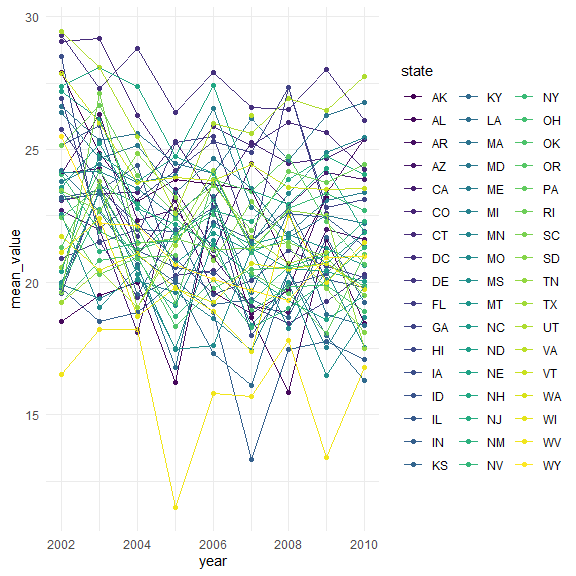
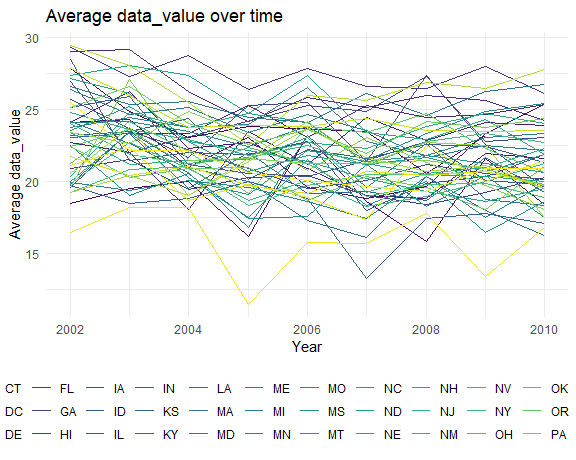
First Version of all three problems

diff --git a/p8105_hw3_xy2517.md b/p8105_hw3_xy2517.md
@@ -3,27 +3,15 @@ p8105\_hw3\_xy2517
 Xuehan Yang
 2021/10/15
 
+**Used library and default plot setting.**
+
 ``` r
 library(tidyverse)
-```
-
-    ## -- Attaching packages --------------------------------------- tidyverse 1.3.1 --
-
-    ## v ggplot2 3.3.5     v purrr   0.3.4
-    ## v tibble  3.1.4     v dplyr   1.0.7
-    ## v tidyr   1.1.3     v stringr 1.4.0
-    ## v readr   2.0.1     v forcats 0.5.1
-
-    ## -- Conflicts ------------------------------------------ tidyverse_conflicts() --
-    ## x dplyr::filter() masks stats::filter()
-    ## x dplyr::lag()    masks stats::lag()
-
-``` r
 library(p8105.datasets)
 
 knitr::opts_chunk$set(
   fig.width = 6,
-  fig.asp = 1,
+  fig.asp = 0.8,
   out.width = "90%"
 )
 
@@ -57,12 +45,16 @@ add\_to\_cart\_order, reordered, user\_id, eval\_set, order\_number,
 order\_dow, order\_hour\_of\_day, days\_since\_prior\_order,
 product\_name, aisle\_id, department\_id, aisle, department.
 
-Specifically, \* order\_dow is the day of the week on which the order
-was placed. \* order\_hour\_of\_day if the hour of the day on which the
-order was placed, from where we could see that people on average place
-order at 13.6 o’clock. \* aisle\_id means the little categories of a
-product like “yogurt” and “fresh fruits”. \* department\_id is a bigger
-classification of a product like “produce” and “dairy eggs”.
+Specifically,
+
+-   order\_dow is the day of the week on which the order was placed.
+-   order\_hour\_of\_day if the hour of the day on which the order was
+    placed, from where we could see that people on average place order
+    at 13.6 o’clock.
+-   aisle\_id means the little categories of a product like “yogurt” and
+    “fresh fruits”.
+-   department\_id is a bigger classification of a product like
+    “produce” and “dairy eggs”.
 
 ## Exploratory data analysis
 
@@ -107,6 +99,11 @@ instacart %>%
 
 <img src="p8105_hw3_xy2517_files/figure-gfm/unnamed-chunk-4-1.png" width="90%" />
 
+Top three aisles are fresh vegetables, fresh fruits and packaged
+vegetables fruits. The differences in the number of items ordered from
+each aisle were big so I transferred the scale of number of items into
+sqrt.
+
 **Table showing the top three ordered items in designated aisles**
 
 ``` r
@@ -116,11 +113,7 @@ popular3 = instacart %>%
   summarize(item_count = n()) %>% 
   filter(min_rank(desc(item_count)) <= 3) %>% 
   arrange(desc(item_count))
-```
 
-    ## `summarise()` has grouped output by 'aisle'. You can override using the `.groups` argument.
-
-``` r
 popular3 %>% knitr::kable()
 ```
 
@@ -135,6 +128,9 @@ popular3 %>% knitr::kable()
 | dog food care              | Snack Sticks Chicken & Rice Recipe Dog Treats |          30 |
 | dog food care              | Organix Chicken & Brown Rice Recipe           |          28 |
 | dog food care              | Small Dog Biscuits                            |          26 |
+
+Although all of them are top three ordered items, the number of items
+ordered differed greatly in different aisles.
 
 **Ordered information about Pink Lady Apples and Coffee Ice Cream (2 x 7
 table)**
@@ -152,25 +148,24 @@ meanhour = instacart %>%
       "3" = "Wed",
       "4" = "Thur",
       "5" = "Fri",
-      "6" = "Sat")) %>% 
+      "6" = "Sat"),
+    order_dow = forcats::fct_relevel(order_dow, c("Sun", "Mon", "Tue", "Wed", "Thur", "Fri", "Sat"))) %>% 
   group_by(product_name, order_dow) %>% 
   summarize(u_hour = round(mean(order_hour_of_day), 1)) %>% 
   pivot_wider(
     names_from = order_dow,
     values_from = u_hour
   )
-```
 
-    ## `summarise()` has grouped output by 'product_name'. You can override using the `.groups` argument.
-
-``` r
 meanhour %>% knitr::kable()
 ```
 
-| product\_name    |  Fri |  Mon |  Sat |  Sun | Thur |  Tue |  Wed |
+| product\_name    |  Sun |  Mon |  Tue |  Wed | Thur |  Fri |  Sat |
 |:-----------------|-----:|-----:|-----:|-----:|-----:|-----:|-----:|
-| Coffee Ice Cream | 12.3 | 14.3 | 13.8 | 13.8 | 15.2 | 15.4 | 15.3 |
-| Pink Lady Apples | 12.8 | 11.4 | 11.9 | 13.4 | 11.6 | 11.7 | 14.2 |
+| Coffee Ice Cream | 13.8 | 14.3 | 15.4 | 15.3 | 15.2 | 12.3 | 13.8 |
+| Pink Lady Apples | 13.4 | 11.4 | 11.7 | 14.2 | 11.6 | 12.8 | 11.9 |
+
+Coffee Ice Cream is on average ordered later than Pink Lady Apples.
 
 # Problem 2
 
@@ -188,31 +183,6 @@ brfss = brfss_smart2010 %>%
   mutate(response = forcats::fct_relevel(response, c("Poor","Fair","Good","Very good","Excellent"))) # level from "Poor" to "Excellent"
 ```
 
-    ## Warning in FUN(X[[i]], ...): strings not representable in native encoding will
-    ## be translated to UTF-8
-
-    ## Warning in FUN(X[[i]], ...): unable to translate '<U+00C4>' to native encoding
-
-    ## Warning in FUN(X[[i]], ...): unable to translate '<U+00D6>' to native encoding
-
-    ## Warning in FUN(X[[i]], ...): unable to translate '<U+00E4>' to native encoding
-
-    ## Warning in FUN(X[[i]], ...): unable to translate '<U+00F6>' to native encoding
-
-    ## Warning in FUN(X[[i]], ...): unable to translate '<U+00DF>' to native encoding
-
-    ## Warning in FUN(X[[i]], ...): unable to translate '<U+00C6>' to native encoding
-
-    ## Warning in FUN(X[[i]], ...): unable to translate '<U+00E6>' to native encoding
-
-    ## Warning in FUN(X[[i]], ...): unable to translate '<U+00D8>' to native encoding
-
-    ## Warning in FUN(X[[i]], ...): unable to translate '<U+00F8>' to native encoding
-
-    ## Warning in FUN(X[[i]], ...): unable to translate '<U+00C5>' to native encoding
-
-    ## Warning in FUN(X[[i]], ...): unable to translate '<U+00E5>' to native encoding
-
 ## Exploratory data analysis
 
 **Which states were observed at 7 or more locations?**
@@ -222,13 +192,11 @@ states7 =
   brfss %>% 
   filter(year == 2002 | year == 2010) %>% 
   select(state,desc,year) %>% 
-  distinct() %>% 
+  distinct() %>% # drop the duplicate
   group_by(state, year) %>% 
   summarise(n_obs = n()) %>% 
   filter(n_obs >= 7)
 ```
-
-    ## `summarise()` has grouped output by 'state'. You can override using the `.groups` argument.
 
 In 2002, states CT, FL, MA, NC, NJ, PA were observed at 7 or more
 locations. In 2010, states CA, CO, FL, MA, MD, NC, NE, NJ, NY, OH, PA,
@@ -237,40 +205,164 @@ SC, TX, WA were observed at 7 or more locations.
 **Spaghetti plot**
 
 ``` r
-brfss %>% 
-  filter(response == "Excellent") %>% 
+  brfss %>% 
+  filter(response == "Excellent" ) %>% 
   group_by(year, state) %>% 
-  summarise(mean_value = mean(data_value)) %>% 
+  summarise(mean_value = mean(data_value, na.rm = TRUE)) %>% 
   ggplot(aes(x = year, y = mean_value, color = state)) +
-  geom_point() +
   geom_line() +
-  theme(legend.position = "right")
-```
-
-    ## `summarise()` has grouped output by 'year'. You can override using the `.groups` argument.
-
-    ## Warning: Removed 4 rows containing missing values (geom_point).
-
-    ## Warning: Removed 3 row(s) containing missing values (geom_path).
-
-<img src="p8105_hw3_xy2517_files/figure-gfm/unnamed-chunk-10-1.png" width="90%" />
-
-``` r
   labs(
     x  = "Year",
     y = "Average data_value",
     title = "Average data_value over time"
+  ) +
+  guides(color = guide_legend(nrow = 3)) #Accurately change legend into 3 rows
+```
+
+<img src="p8105_hw3_xy2517_files/figure-gfm/unnamed-chunk-10-1.png" width="90%" />
+
+**Two panel plots**
+
+``` r
+brfss %>% 
+  filter(year %in% c(2006, 2010)) %>% 
+  ggplot(aes(x = data_value)) +
+  geom_density(aes(fill = response), alpha = 0.7) +
+  facet_grid(.~ year) +
+  labs(
+    x = "Data_value",
+    y = "Density",
+    title = "Distribution of data_value for 5 responses 2006 vs.2010"
   )
 ```
 
-    ## $x
-    ## [1] "Year"
-    ## 
-    ## $y
-    ## [1] "Average data_value"
-    ## 
-    ## $title
-    ## [1] "Average data_value over time"
-    ## 
-    ## attr(,"class")
-    ## [1] "labels"
+<img src="p8105_hw3_xy2517_files/figure-gfm/unnamed-chunk-11-1.png" width="90%" />
+
+# Problem 3
+
+## Load, tidy and wrangle data.
+
+``` r
+accel_df = read_csv("./data/accel_data.csv") %>% 
+  janitor::clean_names() %>% 
+  mutate(
+    day = forcats::fct_relevel(day, c("Sunday", "Monday", "Tuesday", "Wednesday", "Thursday", "Friday", "Saturday")), #encode day with reasonable classes
+    is_weekend = case_when(
+      day %in% c("Saturday","Sunday") ~ "weekend",
+      day %in% c("Monday", "Tuesday", "Wednesday", "Thursday", "Friday") ~ "weekday"
+    )) %>% # add new variable "is_weekend"
+  relocate(week, day_id, day, is_weekend, everything())
+```
+
+This dataset uses five weeks of accelerometer data collected on a 63
+year-old male with BMI 25 who was diagnosed with congestive heart
+failure. Each row represents one day and each activity\_\* represents
+the activity acounts for that minute. There are 1444 variables including
+1440 activity counts in each minute of a day and four week and day
+variables. The number of observations were 35.
+
+## Aggregate accross minutes to create a total activity variable for each day
+
+``` r
+accel_df %>% 
+  pivot_longer(
+    activity_1:activity_1440,
+    names_to = "minute",
+    values_to = "activity_num"
+  ) %>% 
+  group_by(week,day) %>% 
+  summarise(total_activity = round(sum(activity_num),0)) %>% 
+  pivot_wider(
+    names_from = day,
+    values_from = total_activity
+  ) %>% 
+  knitr::kable()
+```
+
+| week | Sunday | Monday | Tuesday | Wednesday | Thursday | Friday | Saturday |
+|-----:|-------:|-------:|--------:|----------:|---------:|-------:|---------:|
+|    1 | 631105 |  78828 |  307094 |    340115 |   355924 | 480543 |   376254 |
+|    2 | 422018 | 295431 |  423245 |    440962 |   474048 | 568839 |   607175 |
+|    3 | 467052 | 685910 |  381507 |    468869 |   371230 | 467420 |   382928 |
+|    4 | 260617 | 409450 |  319568 |    434460 |   340291 | 154049 |     1440 |
+|    5 | 138421 | 389080 |  367824 |    445366 |   549658 | 620860 |     1440 |
+
+-   Trend 1: In the first two weeks, the activity counts in weekdays
+    were increasing.
+-   Trend 2: The fluctuation of activity counts of a day seemed less
+    during weekdays. However, these two trends are not apparent and
+    could be not generalized to whole observation period.
+
+## Inspection activity over the course of the day
+
+``` r
+accel_df %>% 
+  pivot_longer(
+    activity_1:activity_1440,
+    names_to = "minute",
+    names_prefix = "activity_",
+    values_to = "activity_num"
+  ) %>% 
+  mutate(
+    minute = as.double(minute),
+    hour = ceiling(minute/60)) %>% # if I want to change unit from minute to hour
+  ggplot(aes(x = minute, y = activity_num, group = day_id)) + # draw lines according to each day.
+  geom_line(aes(color = day)) + # use color to indicate day of the week
+  scale_x_continuous(
+    breaks = c(0, 360, 720, 1080, 1440),
+    labels = c("0:00AM", "6:00AM", "12:00PM", "6:00PM", "11:59PM")
+  ) +
+  labs(
+    x = "Time of a day",
+    y = "The number of activities",
+    title = "24-hour activity time courses for each day"
+  )
+```
+
+<img src="p8105_hw3_xy2517_files/figure-gfm/unnamed-chunk-14-1.png" width="90%" />
+
+**Conclusions:**
+
+-   From the minutes aspect, this patient conducted less activities
+    during 10:00PM to 6:00AM when he was asleep and more activities
+    during waking hours. Besides, there were an increasing trend in the
+    number of activities during the day. The highly active periods fell
+    around 7:00AM, 12:00PM, 5:00PM and 8:00PM.
+-   From the day aspect, the patient was more active around 12:00PM at
+    the beginning of a week from Sunday to Tuesday which showed by blue
+    lines in the middle and more active around 9:00PM at the end of a
+    week that was showed by green lines on the right.
+
+**Turn unit from minute into hour**
+
+``` r
+accel_df %>% 
+  pivot_longer(
+    activity_1:activity_1440,
+    names_to = "minute",
+    names_prefix = "activity_",
+    values_to = "activity_num"
+  ) %>% 
+  mutate(
+    minute = as.double(minute),
+    hour = ceiling(minute/60)) %>% # change unit from minute to hour
+  group_by(day_id,day,hour) %>% 
+  summarise(total_act = round(mean(activity_num),0)) %>% 
+  ggplot(aes(x = hour, y = total_act, group = day_id)) + # draw lines according to each day
+  geom_line(aes(color = day)) + # use color to indicate day of the week
+  scale_x_continuous(
+    breaks = c(1, 6, 12, 18, 24),
+    labels = c("1", "6", "12", "18", "24")
+  ) +
+  labs(
+    x = "Hour of a day",
+    y = "The number of activities",
+    title = "24-hour activity time courses for each day"
+  )
+```
+
+    ## `summarise()` has grouped output by 'day_id', 'day'. You can override using the `.groups` argument.
+
+<img src="p8105_hw3_xy2517_files/figure-gfm/unnamed-chunk-15-1.png" width="90%" />
+
+This can make the line more clear. Conclusions are the same as above.
